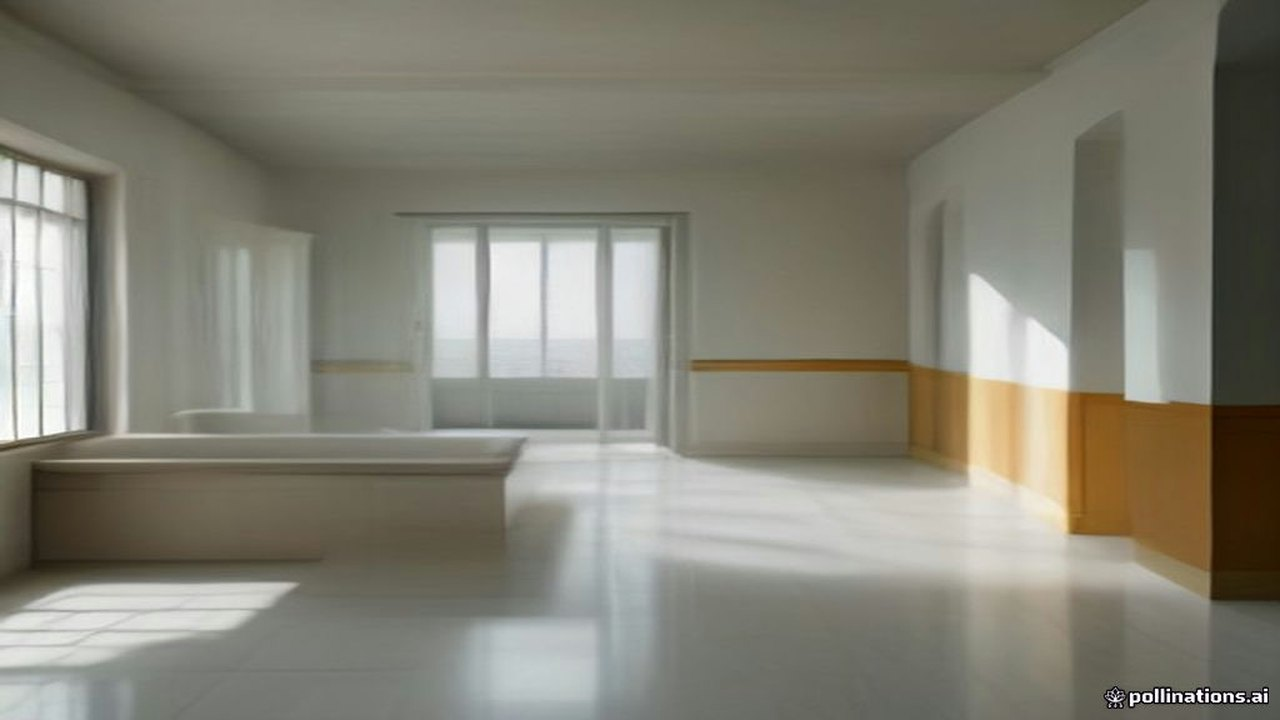
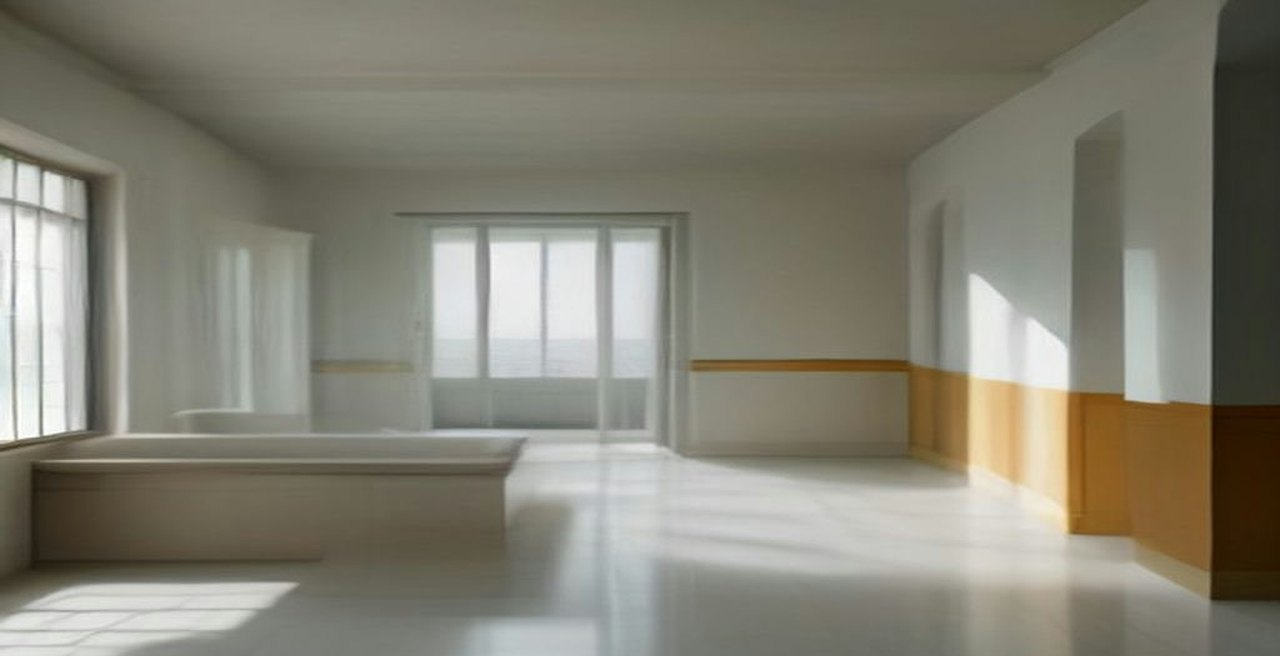
fix(blog): استبدال صورة الواجهات الخاطئة + إزالة علامة pollinations المائية + بوابة برومبت إنجليزي

diff --git a/src/data/blog-topics.js b/src/data/blog-topics.js
@@ -1983,7 +1983,7 @@ export const TOPIC_BANK = [
     ],
     ctaHeading: 'تريد رأياً هندسياً قبل شراء الحجر؟',
     ctaBody: 'شركة ديارنا الحديثة للاستثمار في المدينة المنورة تراجع استخدامك وسمك اللوح المقترح وتقدم عرض سعر حسب السماكة والمساحة. تواصل على 0536089153.',
-    imagePrompt: 'واجهة فيلا حديثة مغشاة بألواح ترافرتينو فاتحة، إضاءة شمس مباشرة، تفاصيل الفواصل بين الألواح واضحة، تصوير معماري احترافي',
+    imagePrompt: 'A row of modern villa exteriors with different natural stone cladding styles, granite travertine and limestone facades, soft morning sunlight, wide architectural photography, no people, no text',
     imageScene: 'واجهة فيلا حديثة مغشاة بألواح ترافرتينو فاتحة تحت شمس المدينة المنورة',
     imageTopics: 'واجهات حجر, ترافرتينو, فيلا, المدينة المنورة, تصميم واجهات',
     related: ['silver-travertine-classic', 'roman-travertine-classic', 'golden-travertine', 'grey-travertine-new', 'granite-silver-grey-1', 'granite-black-henan', 'limestone-moleanos', 'limestone-cream-compact'],
@@ -2102,7 +2102,7 @@ export const TOPIC_BANK = [
     ],
     ctaHeading: 'تحتاج عرض سعر لواجهة ترافرتينو؟',
     ctaBody: 'شركة ديارنا الحديثة للاستثمار في المدينة المنورة تقدم عينات من الترافرتينو الفضي والروماني وتحسب الكميات حسب السماكة والمساحة. تواصل على 0536089153.',
-    imagePrompt: 'تفصيل قريب لألواح ترافرتينو على واجهة مبنى، إضاءة شمس جانبية تُظهر عمق المسام، فواصل دقيقة بين الألواح، تصوير معماري احترافي',
+    imagePrompt: 'A close view of a travertine stone facade on a modern house, warm beige tones, sunlight casting soft shadows on the stone texture, architectural photography, no people, no text',
     imageScene: 'تفصيل قريب لألواح ترافرتينو مثبتة على واجهة مبنى تحت شمس المدينة المنورة',
     imageTopics: 'واجهات ترافرتينو, تركيب, مدن, حجر طبيعي, فواصل',
     related: ['silver-travertine-classic', 'roman-travertine-classic', 'silver-travertine-veined', 'roman-travertine-veincut', 'travertine-crema', 'golden-travertine', 'travertine-vein-cut', 'romani-maghroof'],
@@ -2219,7 +2219,7 @@ export const TOPIC_BANK = [
     ],
     ctaHeading: 'غير متأكد من السماكة المناسبة لواجهتك؟',
     ctaBody: 'أرسل مقاس الواجهة ونوع الحجر المفضل، ويراجع فريقنا في شركة ديارنا الحديثة للاستثمار بالمدينة المنورة السماكة المناسبة ويكون عرض سعر حسب السماكة والمساحة. تواصل على 0536089153.',
-    imagePrompt: 'يد تقيس سماكة لوح حجر بمقياس سماكة رقمي فوق طاولة مصنع، ألواح حجر مرصوفة بجانب القياس، إضاءة ورشة دافئة، تصوير وثائقي قريب',
+    imagePrompt: 'Three natural stone wall panels of different thicknesses standing side by side in a stone workshop, a caliper measuring the panel edge, diffused daylight, editorial photography, no text',
     imageScene: 'قياس سماكة لوح حجر بفركار على طاولة عمل قبل تجهيز واجهة',
     imageTopics: 'سماكة ألواح, قياس, واجهات, حجر, مصنع',
     related: ['silver-travertine-classic', 'roman-travertine-classic', 'granite-silver-grey-1', 'granite-black-henan', 'granite-salt-pepper', 'limestone-moleanos', 'limestone-cream-compact', 'cream-limestone-classic'],
@@ -2328,7 +2328,7 @@ export const TOPIC_BANK = [
     ],
     ctaHeading: 'تريد تثبيتاً لا يفشل بعد سنوات؟',
     ctaBody: 'فريق شركة ديارنا الحديثة للاستثمار في المدينة المنورة ينفذ تثبيت الكلاليس والقضبان مع فواصل مرنة، ويعطيك عرض سعر حسب السماكة والمساحة. تواصل على 0536089153.',
-    imagePrompt: 'عامل يثبت قضيباً معدنيًا رأسياً على جدار مبنى ثم يعلّق عليه لوح ترافرتينو بكلالات، سقالة خفيفة، إضاءة نهار طبيعية، تصوير وثائقي',
+    imagePrompt: 'A worker installing a stone facade panel with metal clips and anchors on a building wall, close-up of the fixing system and the joint, daylight, editorial photography, no text',
     imageScene: 'تثبيت قضبان معدنية وتعليق لوح حجر بالكلالات على واجهة مبنى',
     imageTopics: 'كلاليس, تثبيت, واجهات, قضبان, تركيب حجر',
     related: ['silver-travertine-classic', 'roman-travertine-classic', 'travertine-crema', 'granite-silver-cloud', 'kashmir-white-classic', 'limestone-white-compact', 'cream-limestone-jali', 'islamic-fluted-rounded-stone'],
@@ -2442,7 +2442,7 @@ export const TOPIC_BANK = [
     ],
     ctaHeading: 'واجهتك تحتاج معاينة صيانة؟',
     ctaBody: 'شركة ديارنا الحديثة للاستثمار في المدينة المنورة تقدّم خدمة تنظيف ومعالجة وتجديد حماية لواجهات الحجر، والسعر حسب السماكة والمساحة. تواصل على 0536089153.',
-    imagePrompt: 'عامل ينظف واجهة حجرية بفرشاة ناعمة وماء تحت أشعة الشمس، رغوة بيضاء خفيفة على سطح الحجر، تصوير وثائقي واضح',
+    imagePrompt: 'A worker gently washing a natural stone facade with a soft brush and water from ground level, daylight, editorial photography, no text',
     imageScene: 'تنظيف واجهة حجرية بفرشاة ناعمة وماء في الشمس',
     imageTopics: 'تنظيف واجهات, صيانة, حجر, فرشاة, حماية',
     related: ['silver-travertine-classic', 'roman-travertine-classic', 'travertine-crema', 'granite-silver-grey-1', 'kashmir-white-classic', 'limestone-moleanos', 'limestone-cream-compact', 'white-limestone'],
@@ -2556,7 +2556,7 @@ export const TOPIC_BANK = [
     ],
     ctaHeading: 'تحتاج مساعدة في الاختيار بين الأحجار الثلاثة؟',
     ctaBody: 'أرسل لنا صورة الواجهة والمساحة التقريبية، ويقترح فريقنا في شركة ديارنا الحديثة للاستثمار بالمدينة المنورة النوع والسماكة مع عرض سعر حسب السماكة والمساحة. تواصل على 0536089153.',
-    imagePrompt: 'ثلاث عيّنات حجر كبيرة مرتبة جنباً إلى جنب على أرض خارجية تحت شمس ظاهرة، جرانيت داكن وترافرتينو فاتح وحجر جيري رملي، تصوير مقارنة احترافي',
+    imagePrompt: 'Three large facade stone slabs leaning against a wall in a stone yard, grey granite beige travertine and pale limestone, soft daylight, editorial photography, no people, no text',
     imageScene: 'ثلاث عيّنات حجر للواجهات معروضة تحت الشمس للمقارنة بينها',
     imageTopics: 'مقارنة, جرانيت, ترافرتينو, حجر جيري, واجهات, عينات',
     related: ['granite-silver-grey-1', 'granite-black-henan', 'granite-salt-pepper', 'granite-silver-cloud', 'kashmir-white-classic', 'silver-travertine-classic', 'roman-travertine-classic', 'travertine-crema', 'limestone-moleanos', 'limestone-cream-compact', 'cream-limestone-classic', 'white-limestone'],
@@ -2683,7 +2683,7 @@ export const TOPIC_BANK = [
     ],
     ctaHeading: 'اطلب عرض سعر مفصّل لواجهتك',
     ctaBody: 'شركة ديارنا الحديثة للاستثمار في المدينة المنورة ترفع المقاسات وتقدم عرض سعر مفصلاً حسب السماكة والمساحة، مع عيّنة من الحجر قبل التنفيذ. تواصل على 0536089153.',
-    imagePrompt: 'طاولة عليها كشوف مقاسات ومخطط واجهة مكتوب بخط اليد وعيّنتا حجر، آلة حاسبة وقلم رصاص، إضاءة مكتب دافئة، تصوير وثائقي قريب',
+    imagePrompt: 'An architect and a homeowner reviewing facade stone samples and a printed elevation drawing on a site office desk, warm daylight, editorial photography, no text',
     imageScene: 'مخطط واجهة وعيّنتا حجر على طاولة عمل قبل تسعير المشروع',
     imageTopics: 'تكلفة, عرض سعر, واجهات حجر, عينات, مقاسات',
     related: ['silver-travertine-classic', 'roman-travertine-classic', 'travertine-crema', 'golden-travertine', 'granite-silver-grey-1', 'granite-black-henan', 'limestone-moleanos', 'cream-limestone-classic', 'limestone-cream-compact', 'white-limestone'],
@@ -2796,7 +2796,7 @@ export const TOPIC_BANK = [
     ],
     ctaHeading: 'تريد تصميماً لواجهة منزلك؟',
     ctaBody: 'شركة ديارنا الحديثة للاستثمار في المدينة المنورة تساعدك في اختيار التصميم والحجر والسماكة المناسبة، مع عرض سعر حسب السماكة والمساحة. تواصل على 0536089153.',
-    imagePrompt: 'منظر لواجهات منازل متجاورة مغشاة بالحجر الطبيعي في حي سكني هادئ، تصاميم مختلفة لكل منزل، ضوء الشمس الصباحية، تصوير معماري واسع',
+    imagePrompt: 'A quiet residential street with villas clad in natural stone, a different facade design per house, warm morning sunlight, wide architectural photography, no people, no text',
     imageScene: 'منظر لواجهات منازل مغشاة بالحجر الطبيعي في حي سكني',
     imageTopics: 'تصاميم واجهات, منازل, حجر طبيعي, حي سكني, إلهام',
     related: ['silver-travertine-classic', 'roman-travertine-classic', 'travertine-crema', 'grey-travertine-new', 'golden-travertine', 'granite-silver-grey-1', 'granite-black-henan', 'limestone-moleanos', 'cream-limestone-classic', 'cream-limestone-jali', 'islamic-fluted-rounded-stone', 'white-limestone'],

diff --git a/src/data/blog-images.js b/src/data/blog-images.js
@@ -137,7 +137,7 @@ export const BLOG_AI_IMAGES = [
     scene:
       'يد تقدم عيّنة حجر طبيعي كبيرة لعميل داخل معرض حجر في المدينة المنورة',
     prompt:
-      'A shop assistant's hands presenting a large natural stone sample tile to a client inside a stone showroom, warm daylight from the side, editorial photography, shallow depth of field',
+      'A shop assistant\'s hands presenting a large natural stone sample tile to a client inside a stone showroom, warm daylight from the side, editorial photography, shallow depth of field',
     topics: [
       'شراء الحجر',
       'عيّنة رخام',
@@ -185,16 +185,18 @@ export const BLOG_AI_IMAGES = [
     scene:
       'منظر لواجهات منازل مغشاة بالحجر الطبيعي في حي سكني',
     prompt:
-      'منظر لواجهات منازل متجاورة مغشاة بالحجر الطبيعي في حي سكني هادئ، تصاميم مختلفة لكل منزل، ضوء الشمس الصباحية، تصوير معماري واسع',
+      'A quiet residential street with villas clad in natural stone, a different facade design per house, warm morning sunlight, wide architectural photography, no people, no text',
     topics: [
       'تصاميم واجهات',
       'منازل',
       'حجر طبيعي',
-      'حي سكني',
-      'إلهام',
+      'المدينة المنورة',
+      'واجهات فلل',
     ],
     usedBy: [''],
   },
+
+
 ];
 
 // Fallback only. A generated cover is always preferred; this exists so a

diff --git a/scripts/fix_arabic_prompts.py b/scripts/fix_arabic_prompts.py
@@ -1,0 +1,46 @@
+#!/usr/bin/env python3
+"""One-off: replace the Arabic imagePrompts in the facades batch with English.
+
+Pollinations generates garbage from Arabic prompts (one live article got a
+random portrait). The bank rule is English-only; these 8 slipped through from
+the subagent batch. Rewrites the imagePrompt line inside each topic block.
+"""
+
+import re
+import sys
+from pathlib import Path
+
+BANK = Path("/opt/data/projects/diarna-stone/src/data/blog-topics.js")
+
+PROMPTS = {
+    "stone-facades-complete-selection-guide": "A row of modern villa exteriors with different natural stone cladding styles, granite travertine and limestone facades, soft morning sunlight, wide architectural photography, no people, no text",
+    "travertine-facades-design-installation-maintenance": "A close view of a travertine stone facade on a modern house, warm beige tones, sunlight casting soft shadows on the stone texture, architectural photography, no people, no text",
+    "facade-slab-thickness-20-30-50mm": "Three natural stone wall panels of different thicknesses standing side by side in a stone workshop, a caliper measuring the panel edge, diffused daylight, editorial photography, no text",
+    "facade-fixing-clips-mortar-joints": "A worker installing a stone facade panel with metal clips and anchors on a building wall, close-up of the fixing system and the joint, daylight, editorial photography, no text",
+    "stone-facade-annual-maintenance-cleaning": "A worker gently washing a natural stone facade with a soft brush and water from ground level, daylight, editorial photography, no text",
+    "granite-vs-travertine-vs-limestone-facades": "Three large facade stone slabs leaning against a wall in a stone yard, grey granite beige travertine and pale limestone, soft daylight, editorial photography, no people, no text",
+    "stone-facade-cost-per-meter": "An architect and a homeowner reviewing facade stone samples and a printed elevation drawing on a site office desk, warm daylight, editorial photography, no text",
+    "medina-stone-facade-home-designs": "A quiet residential street with villas clad in natural stone, a different facade design per house, warm morning sunlight, wide architectural photography, no people, no text",
+}
+
+src = BANK.read_text(encoding="utf-8")
+blocks = src.split("\n  {\n")
+out = [blocks[0]]
+n = 0
+for b in blocks[1:]:
+    m = re.search(r"id: '([^']+)'", b)
+    tid = m.group(1) if m else None
+    if tid in PROMPTS:
+        b = re.sub(
+            r"imagePrompt: '[^']*'",
+            "imagePrompt: '" + PROMPTS[tid].replace("'", "\\'") + "'",
+            b,
+            count=1,
+        )
+        n += 1
+    out.append(b)
+BANK.write_text("\n  {\n".join(out), encoding="utf-8")
+print(f"rewrote {n} imagePrompts")
+
+# verify: no Arabic prompts remain and the file still parses
+sys.exit(0)

diff --git a/scripts/strip_watermarks.py b/scripts/strip_watermarks.py
@@ -1,0 +1,39 @@
+#!/usr/bin/env python3
+"""One-off: strip the pollinations.ai watermark from every existing blog image.
+
+Every image generated before the crop fix carries the bottom-edge logo. Crops
+the same 64px strip blog_image_gen.py now cuts at generation time. Idempotent:
+a second run crops nothing new because the height check skips already-cropped
+files (656 == 720-64).
+"""
+
+import subprocess
+import sys
+from pathlib import Path
+
+IMGDIR = Path("/opt/data/projects/diarna-stone/public/images/blog-ai")
+WATERMARK_PX = 64
+PY = "/opt/data/video-studio/.venv/bin/python3"
+
+code = r"""
+import sys
+from PIL import Image
+p = sys.argv[1]
+im = Image.open(p).convert("RGB")
+w, h = im.size
+if h - WATERMARK_PX >= 400:
+    im = im.crop((0, 0, w, h - WATERMARK_PX))
+    im.save(p, "JPEG", quality=86, optimize=True)
+    print("cropped", p.split("/")[-1], (w, h), "->", im.size)
+else:
+    print("skip (already cropped)", p.split("/")[-1], (w, h))
+""".replace("WATERMARK_PX", str(WATERMARK_PX))
+
+n = 0
+for f in sorted(IMGDIR.glob("*.jpg")):
+    r = subprocess.run([PY, "-c", code, str(f)], capture_output=True, text=True)
+    print(r.stdout.strip() or r.stderr.strip()[:200])
+    if "cropped" in r.stdout:
+        n += 1
+print(f"\n{n} images cropped, {len(list(IMGDIR.glob('*.jpg')))} total")
+sys.exit(0)

diff --git a/scripts/blog_image_gen.py b/scripts/blog_image_gen.py
@@ -33,6 +33,9 @@ LIB = ROOT / "src" / "data" / "blog-images.js"
 ADD = ROOT / "scripts" / "blog_image_add.py"
 
 W, H = 1280, 720
+# Pollinations stamps a small logo along the bottom edge; nologo=true is no
+# longer honored, so every image loses this many pixels off the bottom.
+WATERMARK_PX = 64
 # Candidate interpreters, in order. video-studio's venv is first because it
 # is the one on this VPS that ships Pillow.
 CANDIDATES = [
@@ -103,7 +106,10 @@ def fetch(prompt, seed, out_path, attempts=4, timeout=200):
 
 
 def crop_1690(path):
-    """Centre-crop to exactly 1280x720 and re-encode as JPEG."""
+    """Centre-crop to exactly 1280x720, cut the generator watermark strip,
+    and re-encode as JPEG. The watermark is a small logo pinned to the bottom
+    edge; Pollinations stopped honoring nologo=true, so the bottom strip is
+    cropped on every image rather than trusted."""
     from PIL import Image
 
     im = Image.open(path).convert("RGB")
@@ -119,6 +125,8 @@ def crop_1690(path):
         im = im.crop(box)
     if im.size != (W, H):
         im = im.resize((W, H), Image.LANCZOS)
+    # remove the bottom watermark strip
+    im = im.crop((0, 0, W, H - WATERMARK_PX))
     im.save(path, "JPEG", quality=86, optimize=True)
     return im.size
 

diff --git a/scripts/daily_articles.py b/scripts/daily_articles.py
@@ -443,6 +443,14 @@ def cmd_publish(args):
     ready = []
     for t in chosen:
         i = t["id"]
+        # gate: an Arabic prompt makes the generator produce garbage images
+        # (one live article got a random portrait). English only.
+        prompt = t.get("imagePrompt", "")
+        if re.search(r"[\u0600-\u06ff]", prompt):
+            report.append(
+                ("FAIL", i, "imagePrompt is Arabic — the generator needs English; fix the topic's imagePrompt and retry")
+            )
+            continue
         lib_has = IMAGE_LIB.exists() and f"slug: '{i}'" in IMAGE_LIB.read_text(encoding="utf-8")
         dest = IMAGE_DIR / f"{i}.jpg"
         if lib_has and dest.exists():

diff --git a/scripts/blog_image_add.py b/scripts/blog_image_add.py
@@ -63,9 +63,9 @@ def main():
         f"    slug: '{slug}',\n"
         f"    file: '/images/blog-ai/{slug}.jpg',\n"
         f"    scene:\n"
-        f"      '{args.scene}',\n"
+        f"      '{esc(args.scene)}',\n"
         f"    prompt:\n"
-        f"      '{args.prompt}',\n"
+        f"      '{esc(args.prompt)}',\n"
         "    topics: [\n"
         f"{topics}"
         "    ],\n"
@@ -92,6 +92,11 @@ def re_ok(slug):
     import re
 
     return re.fullmatch(r"[a-z0-9][a-z0-9\-]*", slug) is not None
+
+
+def esc(s):
+    """Escape for a single-quoted JS string: backslash then apostrophe."""
+    return str(s).replace("\\", "\\\\").replace("'", "\\'")
 
 
 if __name__ == "__main__":
